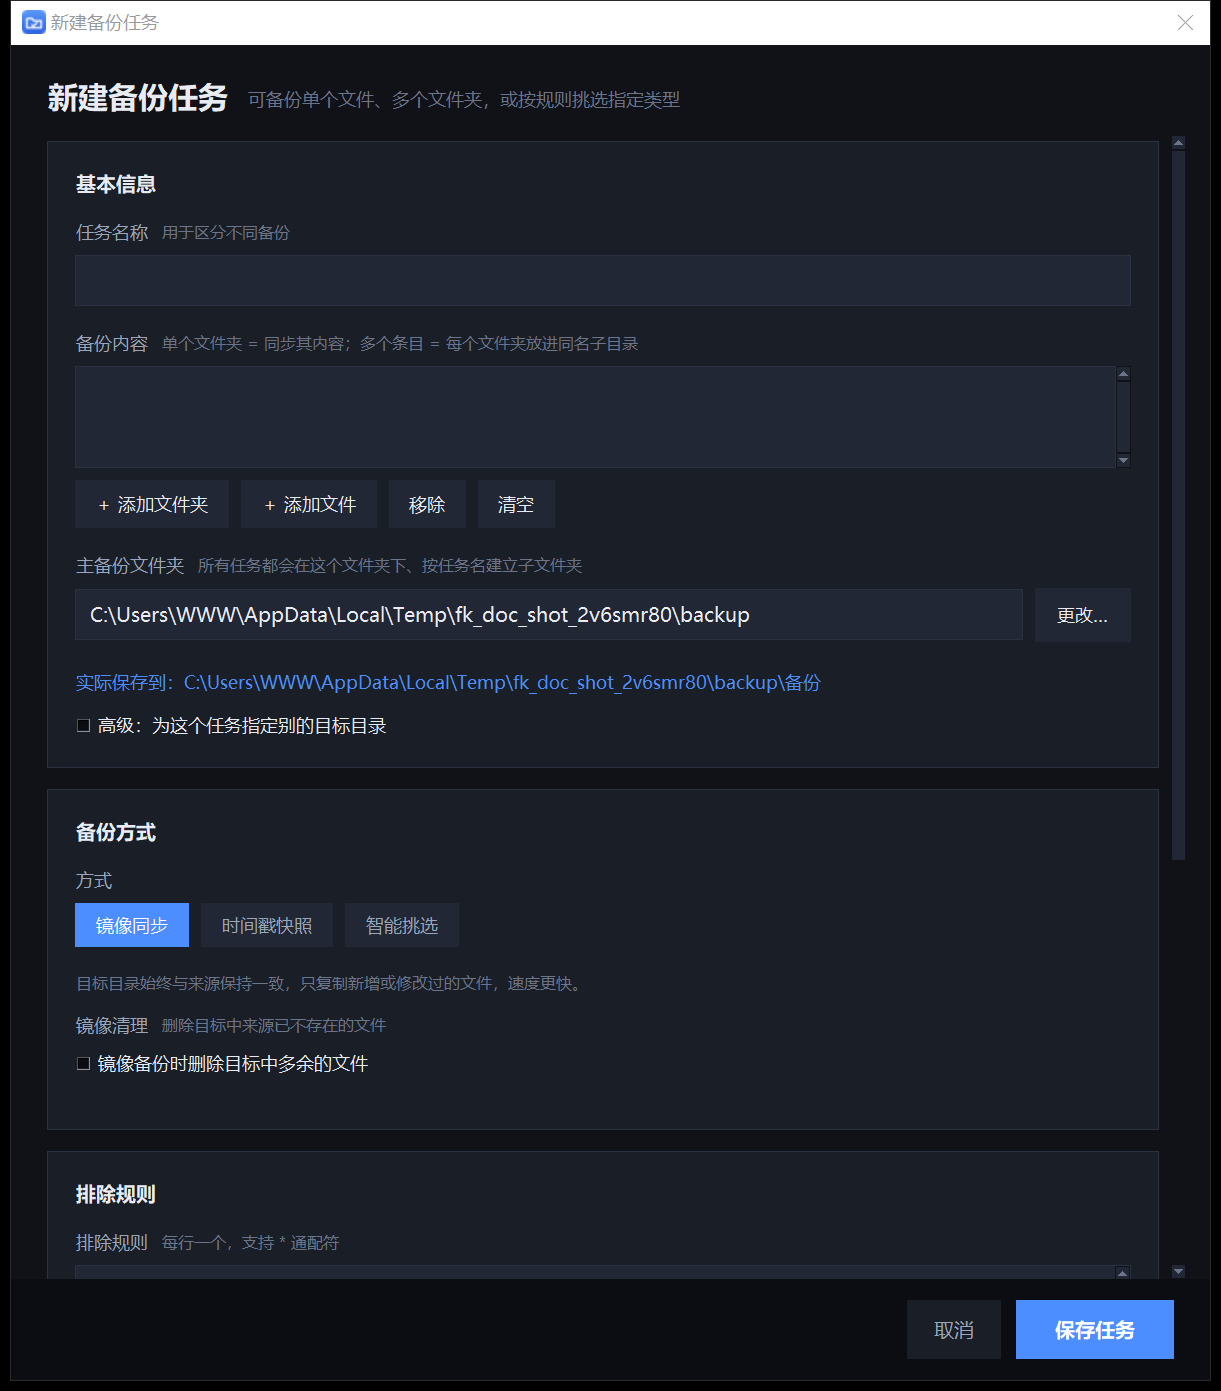
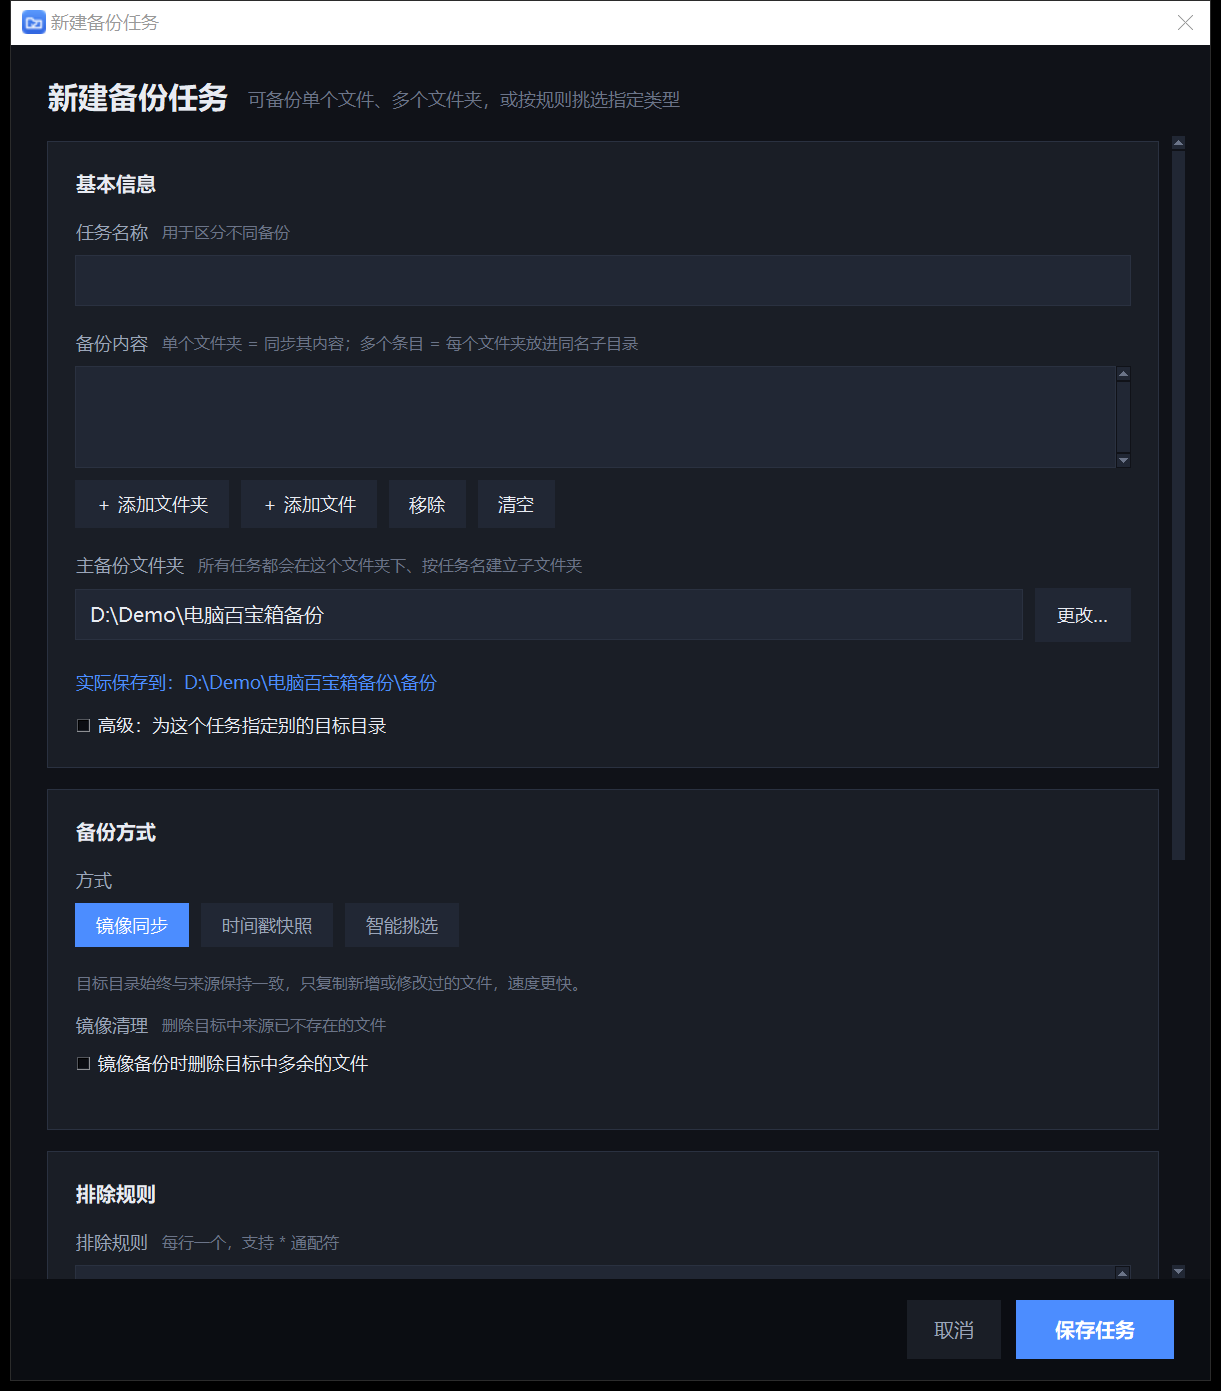
docs: add MIT license, clone instructions and contribution/security guides

Changed region(s): [[0.0622, 0.4328, 0.6536, 0.4946]]

diff --git a/README.md b/README.md
@@ -3,6 +3,19 @@
 一个在 Windows 上本地运行的桌面工具箱：**定时关机、时间闹钟、计时器、快速截图、文件备份**。
 所有数据都保存在你自己的电脑上，不联网、不上传、无第三方运行时依赖（标准库 + tkinter）。
 
+## 获取代码
+
+```bash
+git clone https://github.com/whj4487276/FileKeeper.git
+cd FileKeeper
+python main.py
+```
+
+运行环境：**Windows 10/11 + Python 3.10+**（推荐 3.12）。程序只使用标准库和 tkinter，不需要 `pip install`。
+
+也可以直接下载仓库 ZIP 后双击 `run.bat`。如果你不想装 Python，可使用本地构建的
+`dist\电脑百宝箱.exe` 或安装包（构建产物不在仓库中，原因见 `.gitignore`）。
+
 ![备份任务](docs/screenshots/02-tasks.png)
 
 ## 功能模块
@@ -241,7 +254,8 @@
 
 ### 方式二：命令行
 ```bat
-cd /d "D:\DH GZQ\FileKeeper"
+git clone https://github.com/whj4487276/FileKeeper.git
+cd FileKeeper
 python main.py
 ```
 
@@ -386,3 +400,11 @@ python tests\test_tray_menu.py  :: 托盘右键菜单逐项有效性
 - 时间闹钟由本软件计时，需要程序保持运行（最小化到托盘可以）。
 - 不监听文件系统实时变化，即时备份请用「立即备份」或把间隔设短。
 - 只备份文件内容与时间戳，不保留 NTFS 权限、符号链接、备用数据流。
+
+---
+
+## 许可证
+
+本项目使用 [MIT License](LICENSE)。你可以自由复制、修改、分发和商用，保留版权与许可声明即可。
+
+如果你发现安全问题，建议先通过 GitHub 私下报告，不要直接公开利用细节；参见 [SECURITY.md](SECURITY.md)。

diff --git a/CONTRIBUTING.md b/CONTRIBUTING.md
@@ -1,0 +1,32 @@
+# 参与贡献
+
+感谢你愿意改进电脑百宝箱。
+
+## 提交问题
+
+- 先搜索现有 Issues，避免重复。
+- Bug 请附：Windows 版本、Python 版本、操作步骤、期望结果、实际结果、`data/app.log` 中相关片段。
+- **不要上传真实个人文件、备份目录清单、密码或访问令牌**；示例路径请用 `C:\Demo\...`。
+
+## 提交代码
+
+1. Fork 本仓库；
+2. 从 `main` 创建分支；
+3. 保持“无第三方运行时依赖”，优先使用标准库和 tkinter；
+4. 不提交 `data/`、`dist/`、`build/`、`__pycache__/`；
+5. 补对应测试，并至少运行：
+
+```bat
+python tests\test_engine.py
+python tests\test_ui_smoke.py
+python tests\test_tray_menu.py
+```
+
+6. 在 Pull Request 中说明改动原因、影响范围和测试结果。
+
+## 代码风格
+
+- Python 3.10+；
+- 尽量保持现有模块划分和中文 UI 文案风格；
+- 涉及删除、覆盖、关机等破坏性操作时，必须提供确认或可取消路径；
+- 发现安全问题时不要公开提交利用细节，请先联系维护者。

diff --git a/SECURITY.md b/SECURITY.md
@@ -1,0 +1,22 @@
+# 安全策略
+
+电脑百宝箱是本地离线工具，不主动联网，也不收集使用数据。安全关注点主要是：
+
+- 备份/还原/镜像清理造成的本地文件覆盖或删除；
+- 卸载脚本对安装目录的处理；
+- 管理员权限、全局热键和关机计划；
+- 配置文件或日志中的本机路径信息。
+
+## 报告问题
+
+请不要在公开 Issue 中粘贴可直接利用的细节、真实个人路径、配置文件、日志或访问令牌。
+
+优先使用 GitHub 仓库的 **Security → Report a vulnerability** 私下报告，并附：
+
+- 受影响版本 / 提交；
+- Windows 版本与 Python 版本；
+- 复现步骤；
+- 影响范围；
+- 你建议的修复方向（如有）。
+
+维护者确认后会尽快修复并说明影响范围。请不要对真实重要数据做破坏性验证，使用测试目录和示例文件即可。
